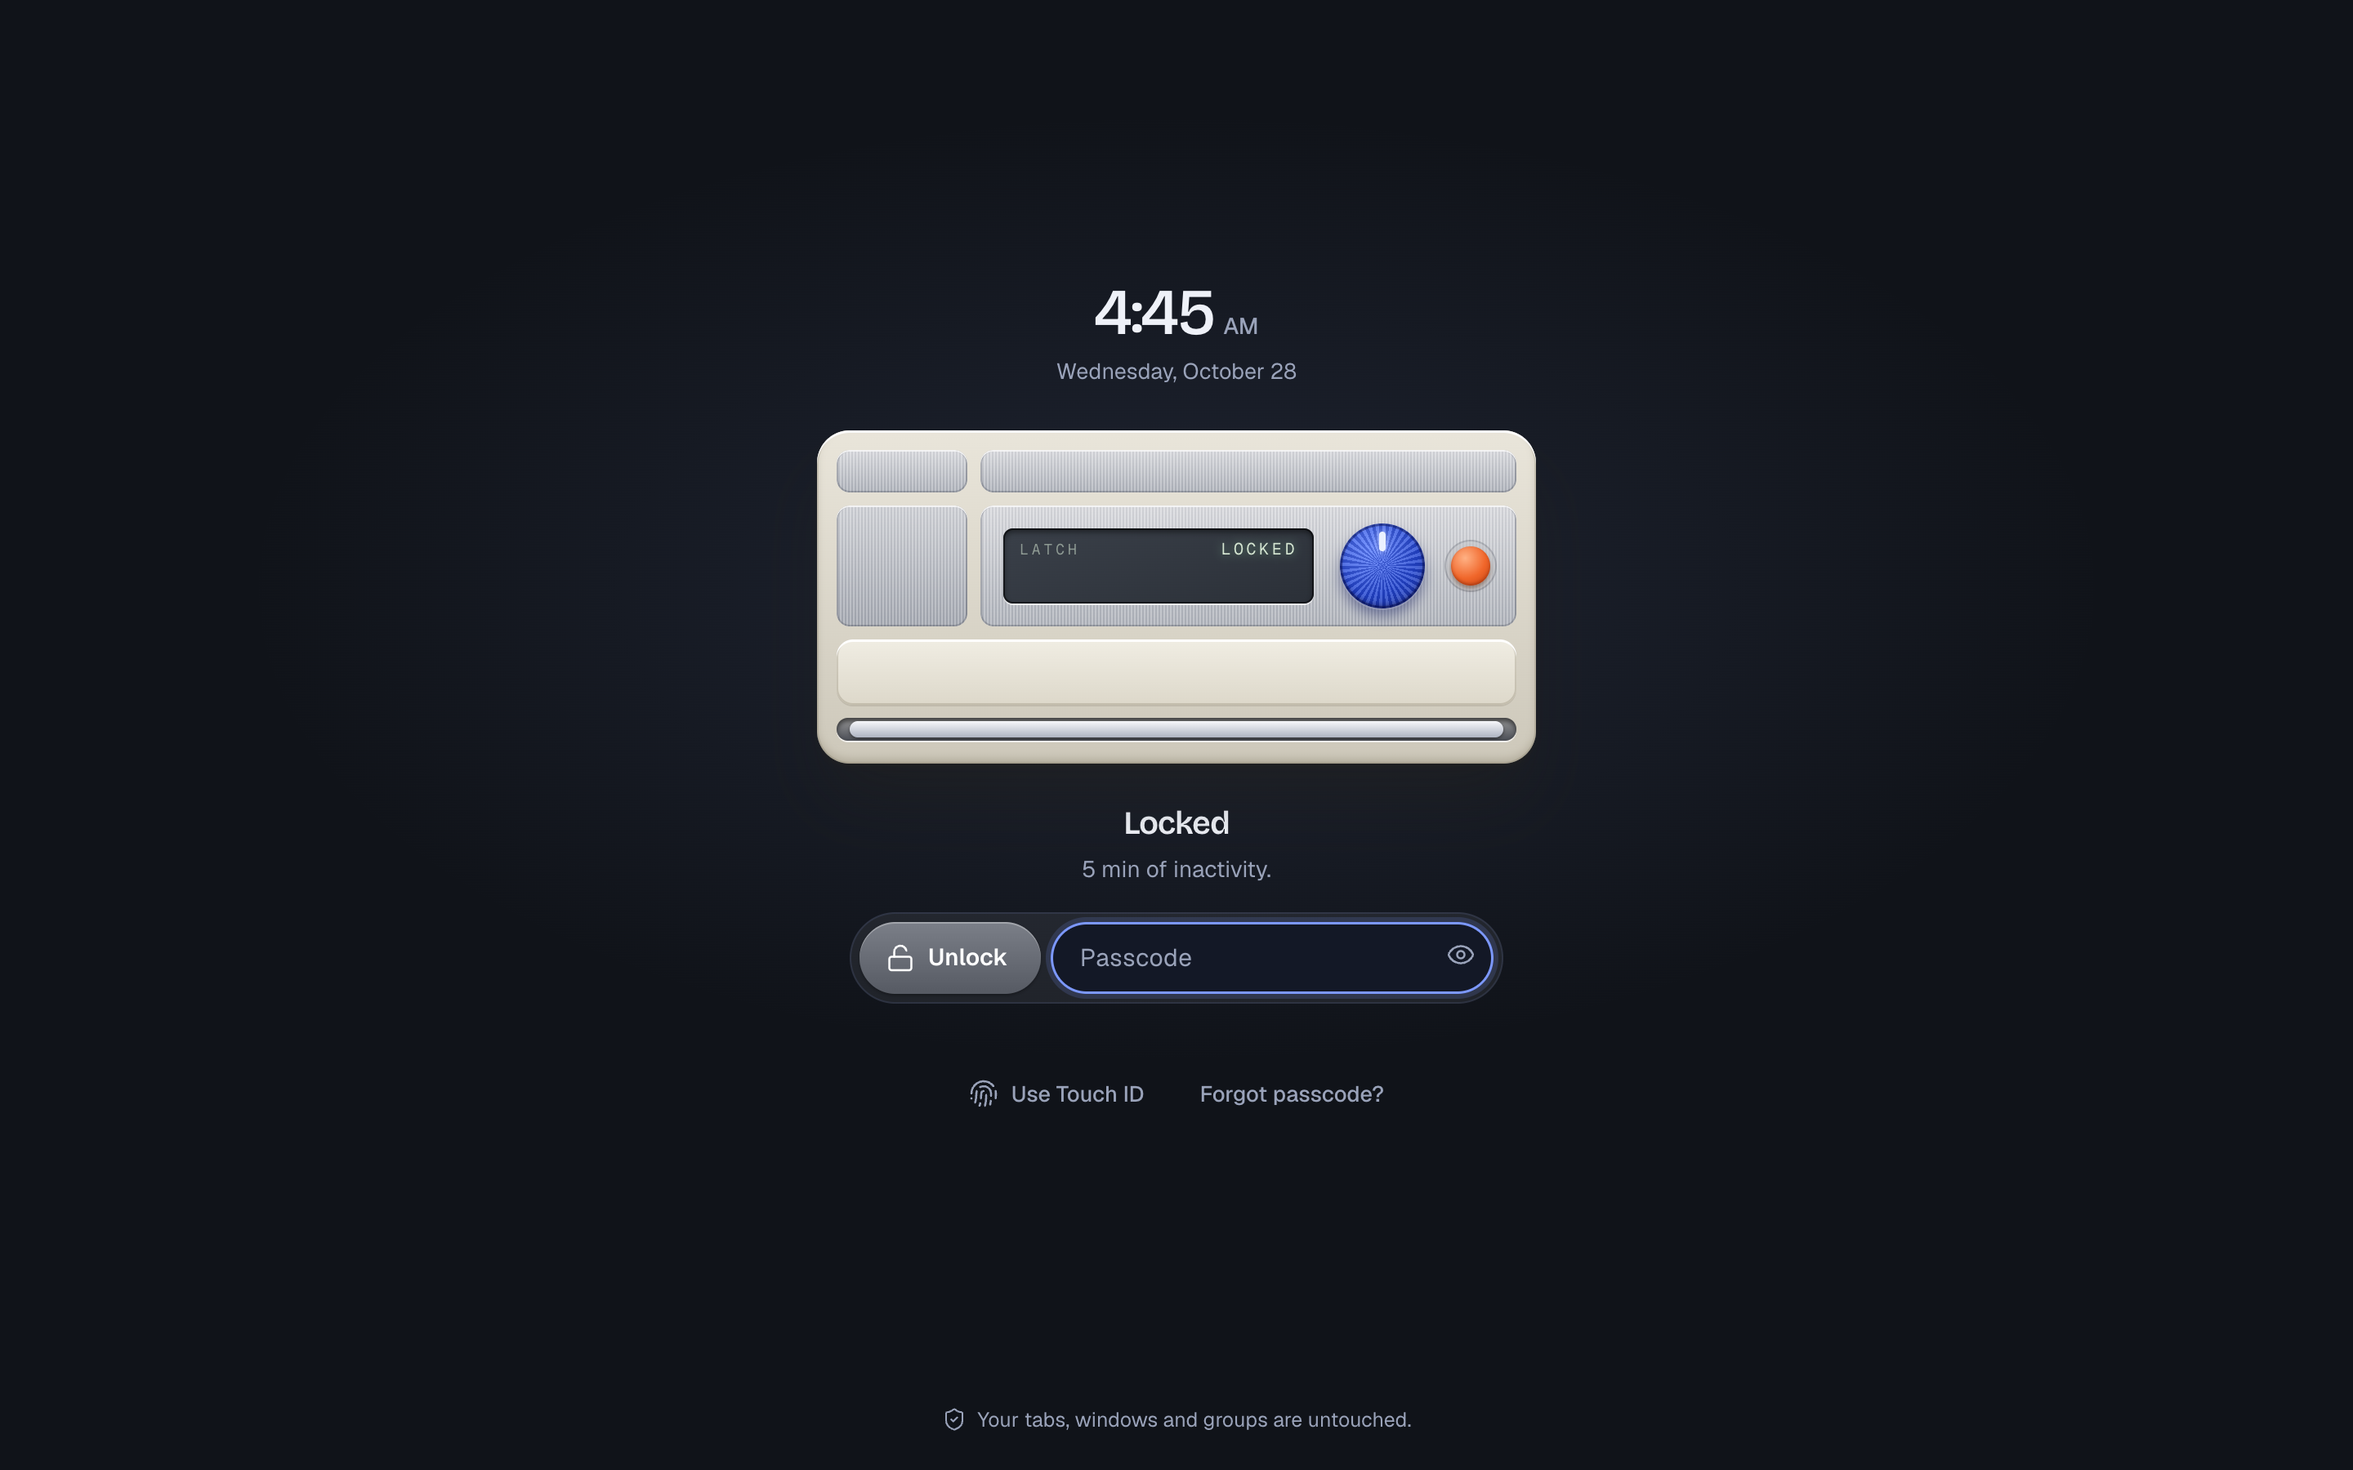
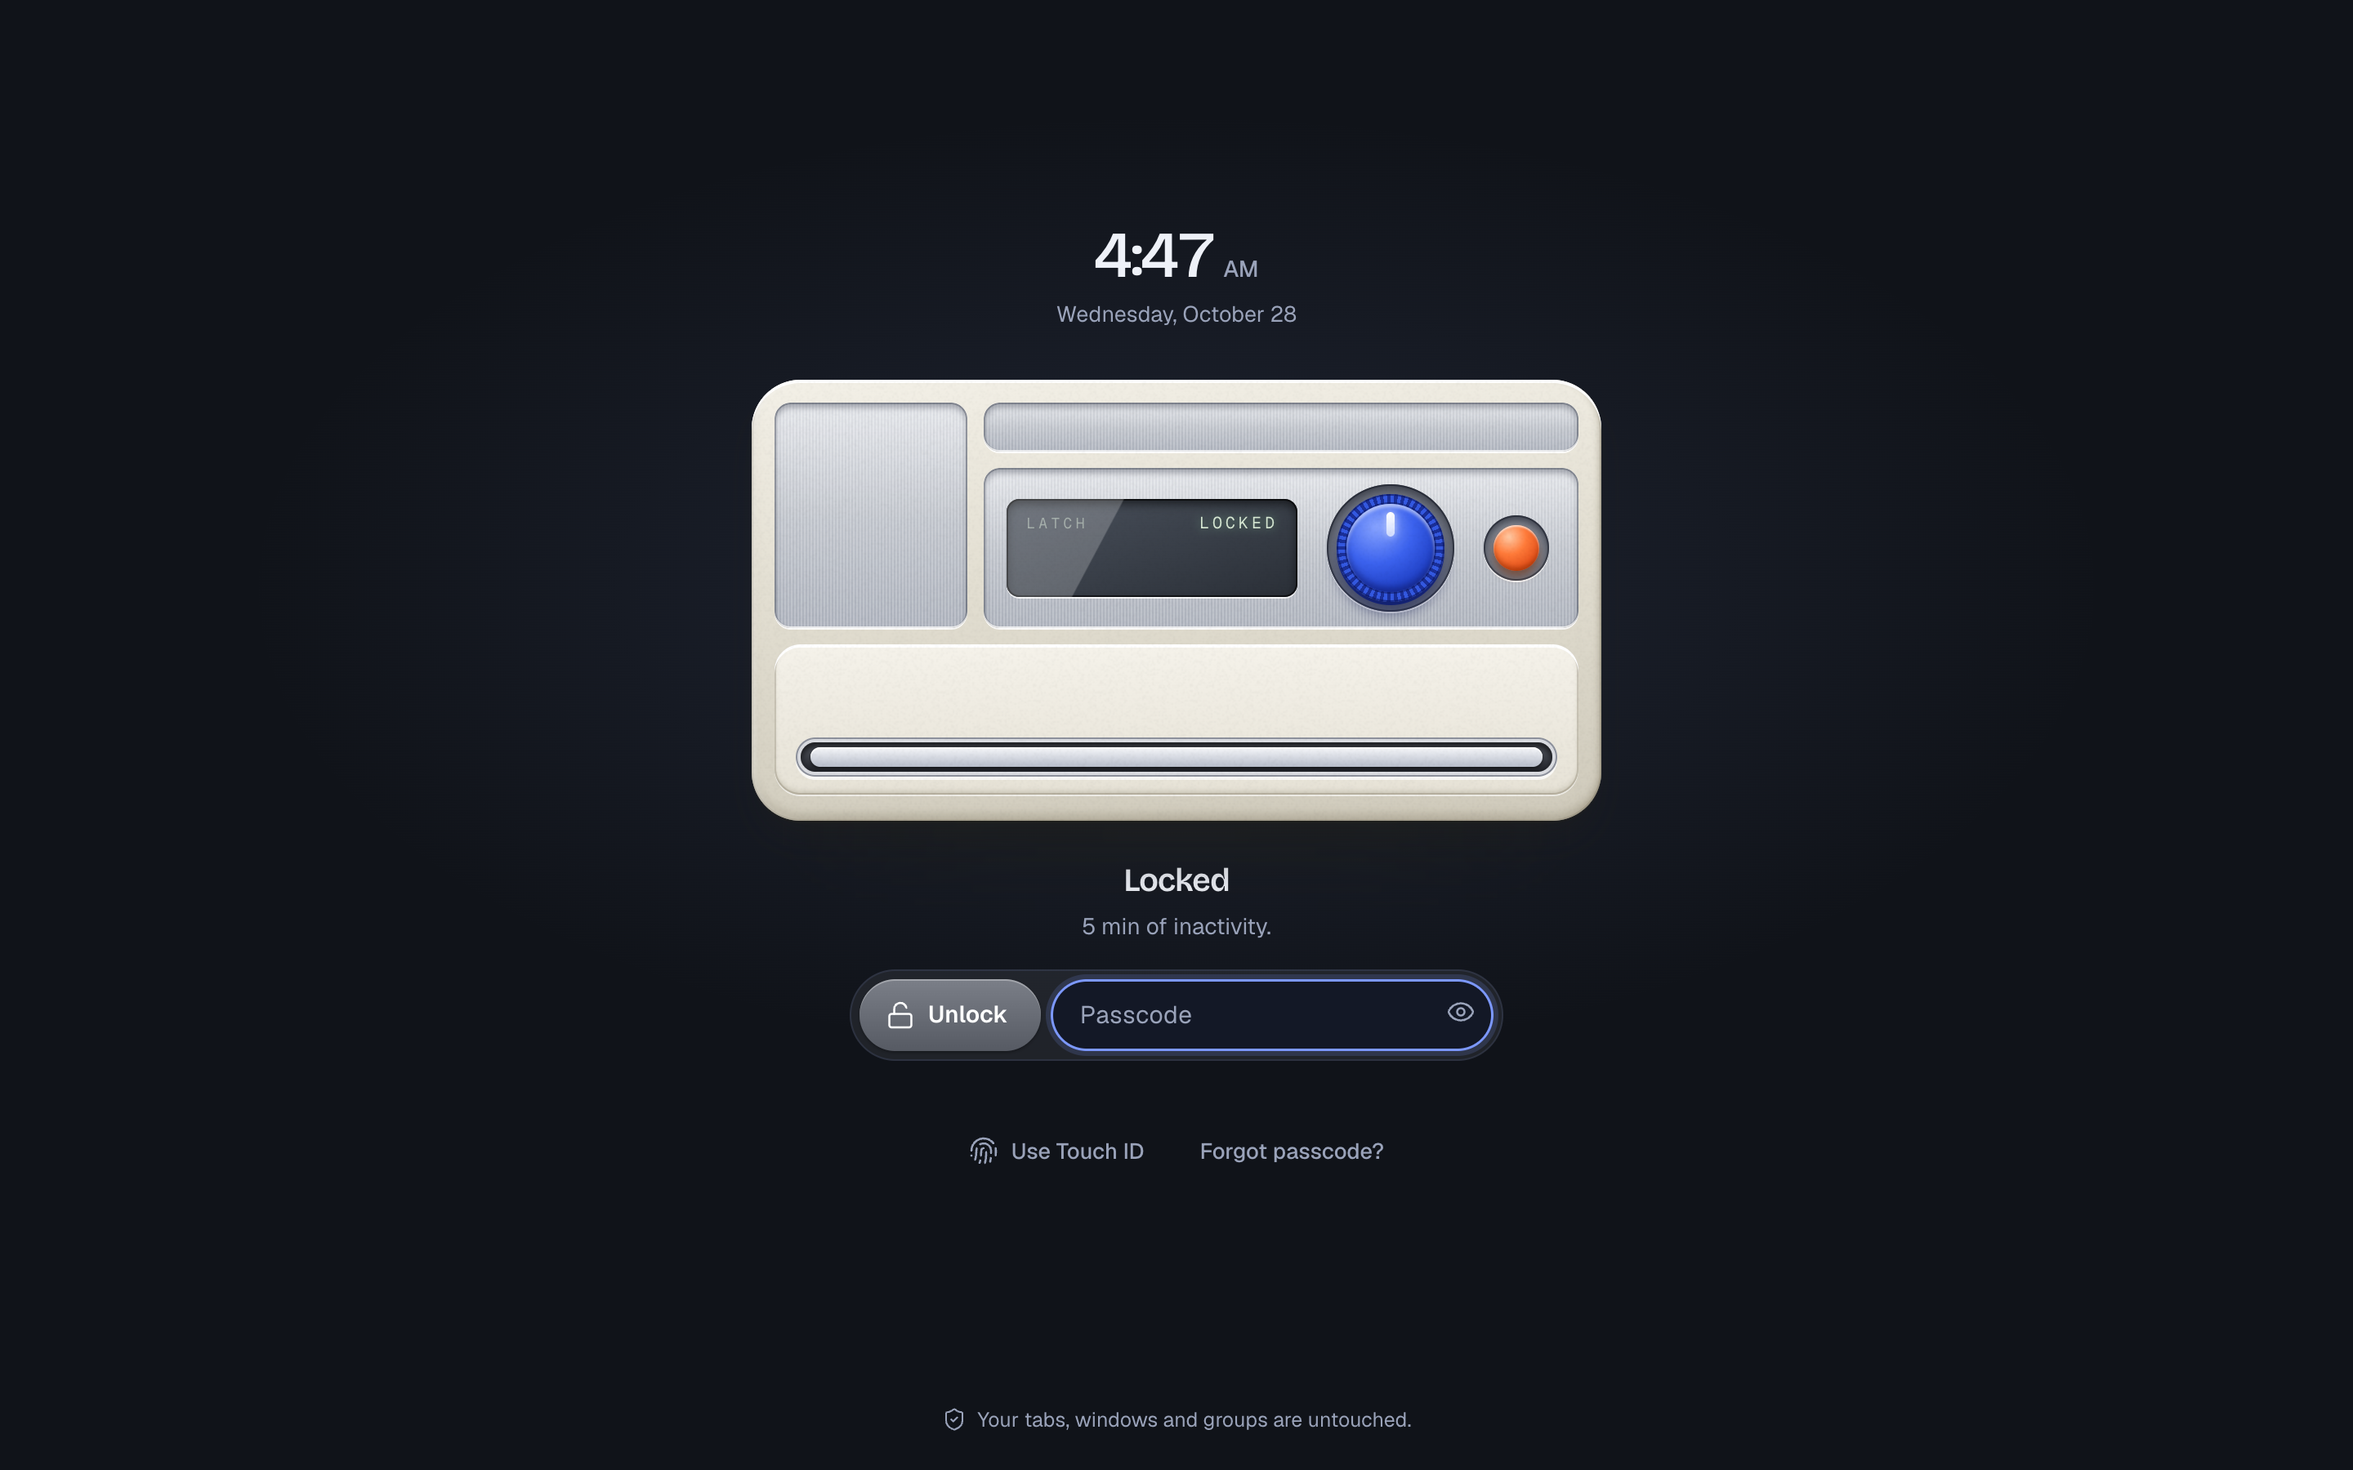
Rebuild the lock device with depth: glossy knob in a well, glass LCD, chrome-rimmed slot and contact shadow

Changed region(s): [[0.3125, 0.1556, 0.6875, 0.7467], [0.5, 0.7778, 0.5938, 0.8089], [0.4062, 0.7778, 0.4688, 0.8089]]

diff --git a/ui/lock.css b/ui/lock.css
@@ -13,40 +13,51 @@ body::after { opacity: .42; }
 .clock p { margin-top: 6px; font-size: 13.5px; color: var(--text-2); }
 
 /* ---------- the device ---------- */
-.device { --turn: 0deg; --mx: 0; --my: 0; width: min(440px, 92vw); perspective: 900px; }
+.device { --turn: 0deg; --mx: 0; --my: 0; position: relative; width: min(520px, 94vw); perspective: 1100px; margin-top: 4px; }
+.device::after { content: ""; position: absolute; left: 6%; right: 6%; bottom: -26px; height: 36px; border-radius: 50%; background: rgba(30, 28, 20, .34); filter: blur(18px); z-index: -1; }
 .body {
-  position: relative; display: grid; gap: 8px; padding: 12px 12px 14px; border-radius: 20px;
-  background: linear-gradient(180deg, var(--putty-a), var(--putty-b));
-  box-shadow: inset 0 1.5px 0 rgba(255, 255, 255, .95), inset 0 -3px 5px rgba(90, 80, 55, .22), inset 0 0 0 1px rgba(90, 80, 55, .16), 0 2px 3px rgba(40, 36, 24, .25), 0 26px 40px -6px rgba(40, 36, 24, .3);
+  position: relative; display: grid; gap: 10px; padding: 14px 14px 16px; border-radius: 30px; isolation: isolate;
+  background: linear-gradient(176deg, #f3f0e7 0%, #e3dfd2 42%, #cfcabb 100%);
+  box-shadow: inset 0 2px 0 rgba(255, 255, 255, .98), inset 0 -4px 6px rgba(88, 78, 52, .26), inset 2px 0 3px rgba(255, 255, 255, .5), inset -2px 0 3px rgba(88, 78, 52, .14), inset 0 0 0 1px rgba(88, 78, 52, .2), 0 1px 1px rgba(40, 36, 24, .3), 0 14px 22px -8px rgba(40, 36, 24, .32);
   transform: rotateX(calc(var(--my) * -4deg)) rotateY(calc(var(--mx) * 6deg)); transition: transform .25s var(--ease);
 }
-.row1, .row2 { display: grid; gap: 8px; }
-.row1 { grid-template-columns: 80px 1fr; } .row2 { grid-template-columns: 80px 1fr; }
-.plate { border-radius: 8px; box-shadow: inset 0 1px 0 rgba(255, 255, 255, .85), inset 0 0 0 1px rgba(60, 64, 76, .28); }
-.brushed { background: repeating-linear-gradient(90deg, rgba(255, 255, 255, .22) 0 1px, rgba(40, 44, 56, .05) 1px 2px), linear-gradient(180deg, var(--metal-a), var(--metal-b)); }
-.plate.small { height: 26px; } .plate.long { height: 26px; }
-.plate.grille { height: 74px; background: repeating-linear-gradient(90deg, rgba(255, 255, 255, .22) 0 1px, rgba(40, 44, 56, .05) 1px 2px), linear-gradient(180deg, #cfd1d6, #a3a7b0); }
-.controls { position: relative; height: 74px; display: flex; align-items: center; gap: 16px; padding: 0 16px 0 14px; }
+.body::after { content: ""; position: absolute; inset: 0; border-radius: inherit; background: url(art/grain.png) 96px; opacity: .22; mix-blend-mode: multiply; pointer-events: none; z-index: 5; }
+.top { display: grid; grid-template-columns: 24% 1fr; gap: 10px; }
+.right { display: grid; grid-template-rows: 30px 1fr; gap: 10px; }
+.inlay { position: relative; border-radius: 10px;
+  background: repeating-linear-gradient(90deg, rgba(255, 255, 255, .14) 0 1px, rgba(30, 36, 50, .03) 1px 2px), linear-gradient(180deg, #e7e9ed 0%, #c4c8cf 52%, #b1b6c0 100%);
+  box-shadow: inset 0 3px 4px rgba(40, 46, 62, .38), inset 0 -1px 0 rgba(255, 255, 255, .85), inset 0 0 0 1px rgba(60, 66, 80, .35), 0 1px 0 rgba(255, 255, 255, .9); }
+.inlay.grille { min-height: 108px; }
+.controls { display: flex; align-items: center; gap: 18px; padding: 10px 18px 10px 14px; }
 
-.lcd { flex: 1; height: 46px; border-radius: 6px; padding: 5px 10px; display: grid; grid-template-columns: auto 1fr; grid-template-rows: auto 1fr; align-items: center;
-  background: linear-gradient(160deg, #3a4049, var(--lcd)); box-shadow: inset 0 2px 4px rgba(0, 0, 0, .55), inset 0 0 0 1px rgba(0, 0, 0, .5), 0 1px 0 rgba(255, 255, 255, .7); font-family: var(--mono); color: var(--lcd-ink); }
-.lcdBrand { font-size: 9px; letter-spacing: .22em; opacity: .55; }
-.lcdText { grid-column: 2; justify-self: end; font-size: 10px; letter-spacing: .18em; text-shadow: 0 0 6px rgba(150, 230, 170, .55); }
-.lcdDots { grid-column: 1 / -1; font-size: 24px; letter-spacing: .18em; line-height: 1; min-height: 17px; text-shadow: 0 0 7px rgba(150, 230, 170, .6); white-space: nowrap; overflow: hidden; }
+/* LCD under glass */
+.lcd { position: relative; flex: 1; height: 60px; border-radius: 8px; padding: 7px 12px; display: grid; grid-template-columns: auto 1fr; grid-template-rows: auto 1fr; align-items: center; overflow: hidden;
+  background: linear-gradient(160deg, #4a515c, #2a2f37); font-family: var(--mono); color: var(--lcd-ink);
+  box-shadow: inset 0 3px 6px rgba(0, 0, 0, .6), inset 0 0 0 1px rgba(0, 0, 0, .6), 0 1px 0 rgba(255, 255, 255, .85); }
+.lcd .gloss { position: absolute; inset: 0; background: linear-gradient(118deg, rgba(255, 255, 255, .22) 0 34%, rgba(255, 255, 255, 0) 34.5%); pointer-events: none; z-index: 2; }
+.lcdBrand { font-size: 9px; letter-spacing: .24em; opacity: .5; }
+.lcdText { grid-column: 2; justify-self: end; font-size: 10px; letter-spacing: .2em; text-shadow: 0 0 6px rgba(150, 230, 170, .55); }
+.lcdDots { grid-column: 1 / -1; font-size: 28px; letter-spacing: .16em; line-height: 1; min-height: 24px; text-shadow: 0 0 8px rgba(150, 230, 170, .6); white-space: nowrap; overflow: hidden; }
 
-.knob { position: relative; width: 52px; height: 52px; border-radius: 50%; flex: none; transform: rotate(var(--turn)); transition: transform .32s cubic-bezier(.3, 1.5, .5, 1);
-  background: repeating-conic-gradient(from 0deg, rgba(255, 255, 255, .16) 0 5deg, rgba(0, 0, 50, .16) 5deg 10deg), radial-gradient(circle at 38% 30%, #5f82ff, #2548d2 58%, #1a2f93);
-  box-shadow: 0 5px 8px rgba(20, 30, 100, .45), 0 1px 0 rgba(255, 255, 255, .5), inset 0 -2px 3px rgba(0, 0, 50, .4), inset 0 0 0 1.5px rgba(10, 20, 90, .5); }
-.knob i { position: absolute; top: 5px; left: 50%; width: 4px; height: 12px; margin-left: -2px; border-radius: 2px; background: #eaf0ff; box-shadow: 0 0 4px rgba(255, 255, 255, .6); }
-.lamp { width: 24px; height: 24px; border-radius: 50%; flex: none; background: radial-gradient(circle at 36% 30%, #ffb184, #f0662a 55%, #c4400f); box-shadow: 0 2px 3px rgba(80, 30, 0, .45), inset 0 -1px 2px rgba(120, 30, 0, .5), 0 0 0 3px rgba(255, 255, 255, .35), 0 0 0 4px rgba(60, 64, 76, .25); transition: filter .2s, transform .15s; }
-.device.typing .lamp { filter: brightness(1.2) saturate(1.1); }
-.device.wrong .lamp { background: radial-gradient(circle at 36% 30%, #ffb0a8, #e5352a 55%, #8f1a12); animation: blinkLamp .5s 3; }
+/* the knob sits in a recessed well: knurled skirt, glossy blue cap, a pointer notch */
+.knobwell { width: 78px; height: 78px; border-radius: 50%; flex: none; display: grid; place-items: center; background: radial-gradient(circle at 50% 40%, #8e929c, #666b76); box-shadow: inset 0 4px 7px rgba(20, 24, 36, .65), inset 0 0 0 1px rgba(20, 24, 36, .55), 0 1px 0 rgba(255, 255, 255, .9); }
+.knob { position: relative; width: 66px; height: 66px; border-radius: 50%; transform: rotate(var(--turn)); transition: transform .32s cubic-bezier(.3, 1.5, .5, 1); box-shadow: 0 7px 9px rgba(10, 20, 80, .55), 0 2px 0 #1c2f92; }
+.knob .ring { position: absolute; inset: 0; border-radius: 50%; background: repeating-conic-gradient(from 0deg, #3358e0 0 4deg, #1a2f98 4deg 8deg); box-shadow: inset 0 0 0 1px rgba(10, 20, 90, .6); }
+.knob .face { position: absolute; inset: 6px; border-radius: 50%; background: radial-gradient(circle at 34% 26%, #86a2ff 0%, #3b62ee 42%, #2142c8 72%, #1b34a0 100%); box-shadow: inset 0 2px 2px rgba(255, 255, 255, .55), inset 0 -3px 4px rgba(10, 20, 100, .5), 0 0 0 1px rgba(10, 20, 90, .55); }
+.knob .face i { position: absolute; top: 5px; left: 50%; width: 5px; height: 15px; margin-left: -2.5px; border-radius: 3px; background: linear-gradient(#fff, #cfdbff); box-shadow: 0 0 5px rgba(255, 255, 255, .7); }
+.lampwell { width: 40px; height: 40px; border-radius: 50%; flex: none; display: grid; place-items: center; background: radial-gradient(circle at 50% 40%, #8e929c, #666b76); box-shadow: inset 0 3px 5px rgba(20, 24, 36, .6), inset 0 0 0 1px rgba(20, 24, 36, .5), 0 1px 0 rgba(255, 255, 255, .9); }
+.lamp { width: 28px; height: 28px; border-radius: 50%; background: radial-gradient(circle at 34% 26%, #ffc9a4, #ff7b3a 38%, #e5521b 72%, #b83a0c 100%); box-shadow: 0 4px 5px rgba(120, 40, 0, .5), inset 0 1px 1px rgba(255, 255, 255, .7), inset 0 -2px 3px rgba(130, 40, 0, .5); transition: filter .2s, transform .15s; }
+.device.typing .lamp { filter: brightness(1.15) saturate(1.1); transform: translateY(1px); }
+.device.wrong .lamp { background: radial-gradient(circle at 34% 26%, #ffc0b8, #f0453a 40%, #c01f14 100%); animation: blinkLamp .5s 3; }
 
-.deck { height: 40px; border-radius: 10px; background: linear-gradient(180deg, #f0ede3, #ddd8ca); box-shadow: inset 0 1.5px 0 #fff, inset 0 0 0 1px rgba(90, 80, 55, .2), 0 1px 0 rgba(90, 80, 55, .15); }
-.slot { position: relative; height: 14px; border-radius: 7px; background: linear-gradient(180deg, #9a9a9a, #4a4d55); box-shadow: inset 0 2px 3px rgba(0, 0, 0, .6), 0 1px 0 rgba(255, 255, 255, .7); overflow: hidden; }
-.bolt { position: absolute; top: 2px; bottom: 2px; left: 8px; right: 8px; border-radius: 5px; background: linear-gradient(180deg, #f6f7fa, #aeb4c2); box-shadow: 0 1px 2px rgba(0, 0, 0, .4); transition: transform .8s var(--ease); }
-.device.open .bolt { transform: translateX(-88%); }
-.device.open .lamp { background: radial-gradient(circle at 36% 30%, #a9c2ff, #4a74f2 55%, #2543b8); }
+/* the big smooth front panel, with the slot and bolt near the bottom edge */
+.front { position: relative; height: 92px; border-radius: 16px; background: linear-gradient(180deg, #f5f2ea 0%, #e6e2d6 100%);
+  box-shadow: inset 0 2px 0 #fff, inset 0 -2px 3px rgba(88, 78, 52, .22), inset 0 0 0 1px rgba(88, 78, 52, .2), 0 1px 0 rgba(255, 255, 255, .6); }
+.front .slot { position: absolute; left: 16px; right: 16px; bottom: 14px; height: 18px; border-radius: 9px;
+  background: linear-gradient(180deg, #5c606a, #1e2026); box-shadow: 0 0 0 2px #d9dbe0, 0 0 0 3px #8d919c, 0 2px 0 3px rgba(255, 255, 255, .75), inset 0 3px 4px rgba(0, 0, 0, .7); overflow: hidden; }
+.bolt { position: absolute; top: 3px; bottom: 3px; left: 6px; right: 6px; border-radius: 6px; background: linear-gradient(180deg, #f7f8fb, #b7bdca); box-shadow: 0 1px 2px rgba(0, 0, 0, .5), inset 0 1px 0 #fff; transition: transform .8s var(--ease); }
+.device.open .bolt { transform: translateX(-90%); }
+.device.open .lamp { background: radial-gradient(circle at 34% 26%, #cfe0ff, #5a82f7 40%, #2a4fd0 100%); box-shadow: 0 4px 5px rgba(20, 40, 140, .5), inset 0 1px 1px rgba(255, 255, 255, .7); }
 .device.open .knob { transform: rotate(calc(var(--turn) + 360deg)); transition: transform .9s var(--ease); }
 .device.wrong .body { animation: knock .42s var(--ease); }
 @keyframes knock { 20% { translate: -8px 0; } 45% { translate: 7px 0; } 70% { translate: -4px 0; } }
@@ -84,5 +95,5 @@ label { display: grid; gap: 6px; font-size: 13px; font-weight: 500; }
 @keyframes shake { 20% { transform: translateX(-6px); } 45% { transform: translateX(5px); } 70% { transform: translateX(-3px); } }
 @media (prefers-reduced-motion: no-preference) { .stage.done .device { animation: lift .5s var(--ease) both; } @keyframes lift { 50% { transform: translateY(-8px); } } }
 @media (prefers-reduced-motion: reduce) { .device.wrong .lamp { animation: none; } }
-@media (max-height: 760px) { .stage { gap: 14px; } .clock time { font-size: 30px; } .clock p { display: none; } }
-@media (max-width: 440px) { .controls { gap: 10px; padding: 0 10px; } .knob { width: 44px; height: 44px; } }
+@media (max-height: 800px) { .stage { gap: 16px; } .clock time { font-size: 30px; } .clock p { display: none; } .device { width: min(440px, 94vw); } .front { height: 70px; } .inlay.grille { min-height: 90px; } }
+@media (max-width: 480px) { .controls { gap: 10px; padding: 8px 10px; } .knobwell { width: 60px; height: 60px; } .knob { width: 50px; height: 50px; } .lampwell { width: 32px; height: 32px; } .lamp { width: 22px; height: 22px; } .lcdDots { font-size: 22px; } .front { height: 70px; } .inlay.grille { min-height: 86px; } }

diff --git a/ui/lock.html b/ui/lock.html
@@ -15,20 +15,20 @@
 
     <div class="device" id="dialVisual" aria-hidden="true">
       <div class="body">
-        <div class="row1">
-          <div class="plate brushed small"></div>
-          <div class="plate brushed long"></div>
-        </div>
-        <div class="row2">
-          <div class="plate brushed grille"></div>
-          <div class="plate brushed controls">
-            <div class="lcd"><span class="lcdBrand">LATCH</span><span class="lcdText" id="lcdText">LOCKED</span><span class="lcdDots" id="lcdDots"></span></div>
-            <div class="knob"><i></i></div>
-            <div class="lamp" id="lamp"></div>
+        <div class="top">
+          <div class="inlay grille"></div>
+          <div class="right">
+            <div class="inlay bar"></div>
+            <div class="inlay controls">
+              <div class="lcd"><i class="gloss"></i><span class="lcdBrand">LATCH</span><span class="lcdText" id="lcdText">LOCKED</span><span class="lcdDots" id="lcdDots"></span></div>
+              <div class="knobwell"><div class="knob"><b class="ring"></b><b class="face"><i></i></b></div></div>
+              <div class="lampwell"><div class="lamp" id="lamp"></div></div>
+            </div>
           </div>
         </div>
-        <div class="deck"></div>
-        <div class="slot"><i class="bolt"></i></div>
+        <div class="front">
+          <div class="slot"><i class="bolt"></i></div>
+        </div>
       </div>
     </div>
 
